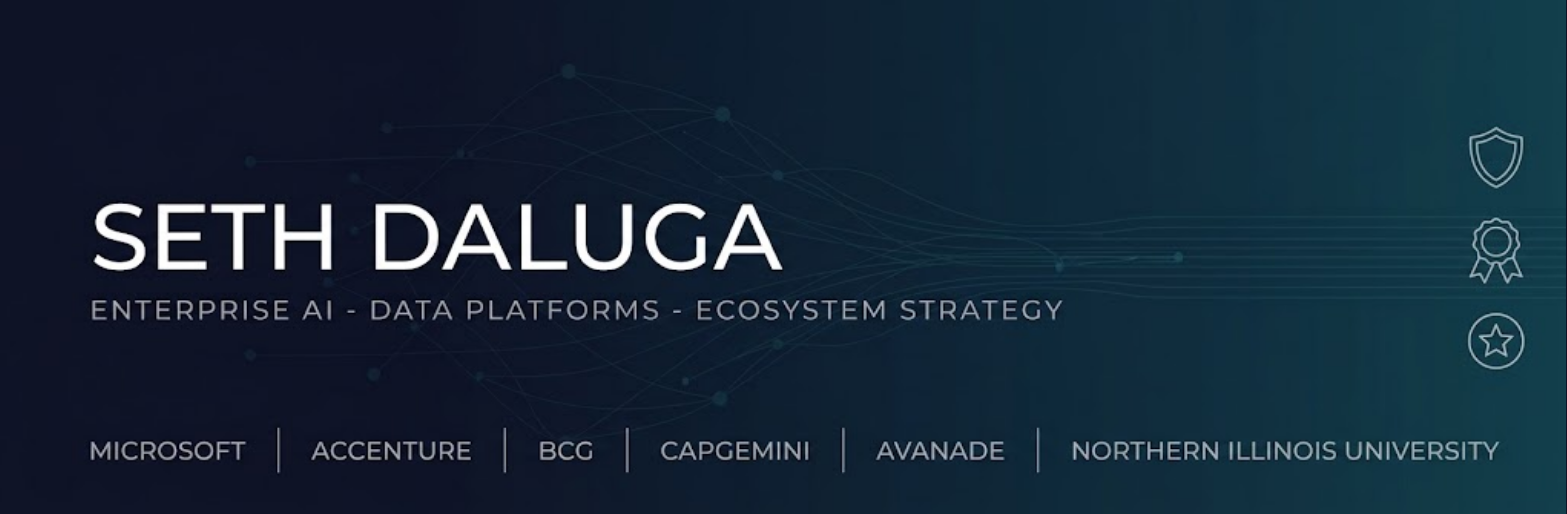
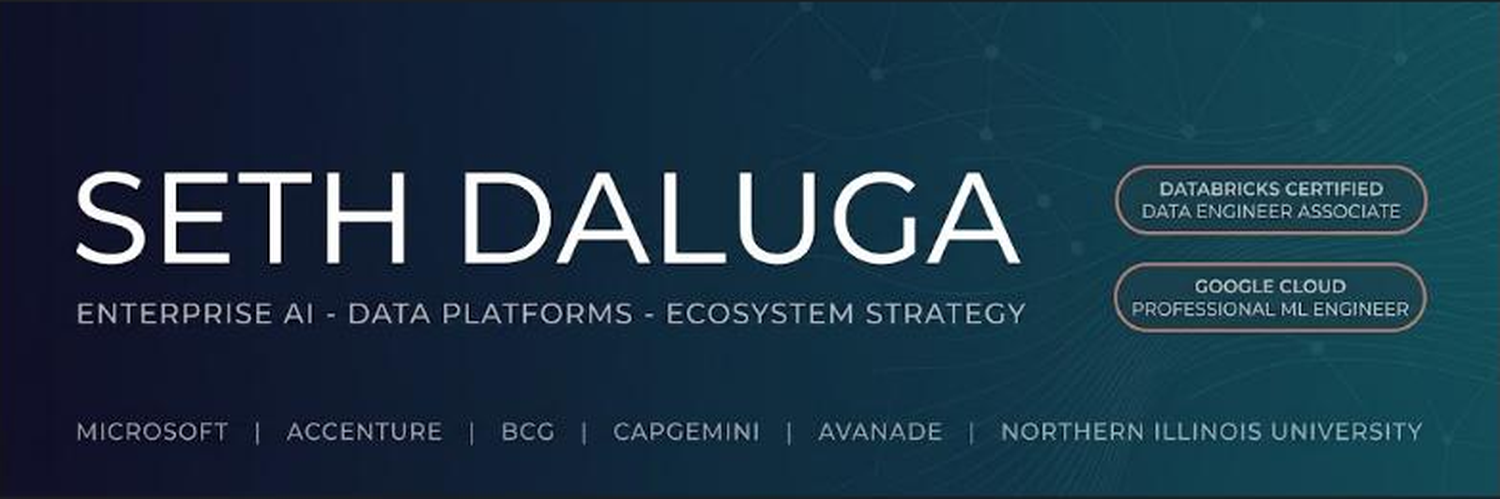
Add files via upload

diff --git a/README.md b/README.md
@@ -83,6 +83,9 @@ Twenty years turning enterprise data and AI strategy into signed, delivered, and
 
 ## Credentials
 
+![Databricks Certified Data Engineer Associate](https://img.shields.io/badge/Databricks%20Certified-Data%20Engineer%20Associate-FF3621?style=for-the-badge&logo=databricks&logoColor=white)
+![Google Professional Machine Learning Engineer](https://img.shields.io/badge/Google%20Cloud-Professional%20ML%20Engineer-4285F4?style=for-the-badge&logo=googlecloud&logoColor=white)
+
 **Northern Illinois University — College of Business**
 
 Microsoft Global Black Belt (Analytics & AI) · Microsoft Account Technology Strategist, Financial Services · Fabric, Databricks, and cloud-scale analytics specialization
